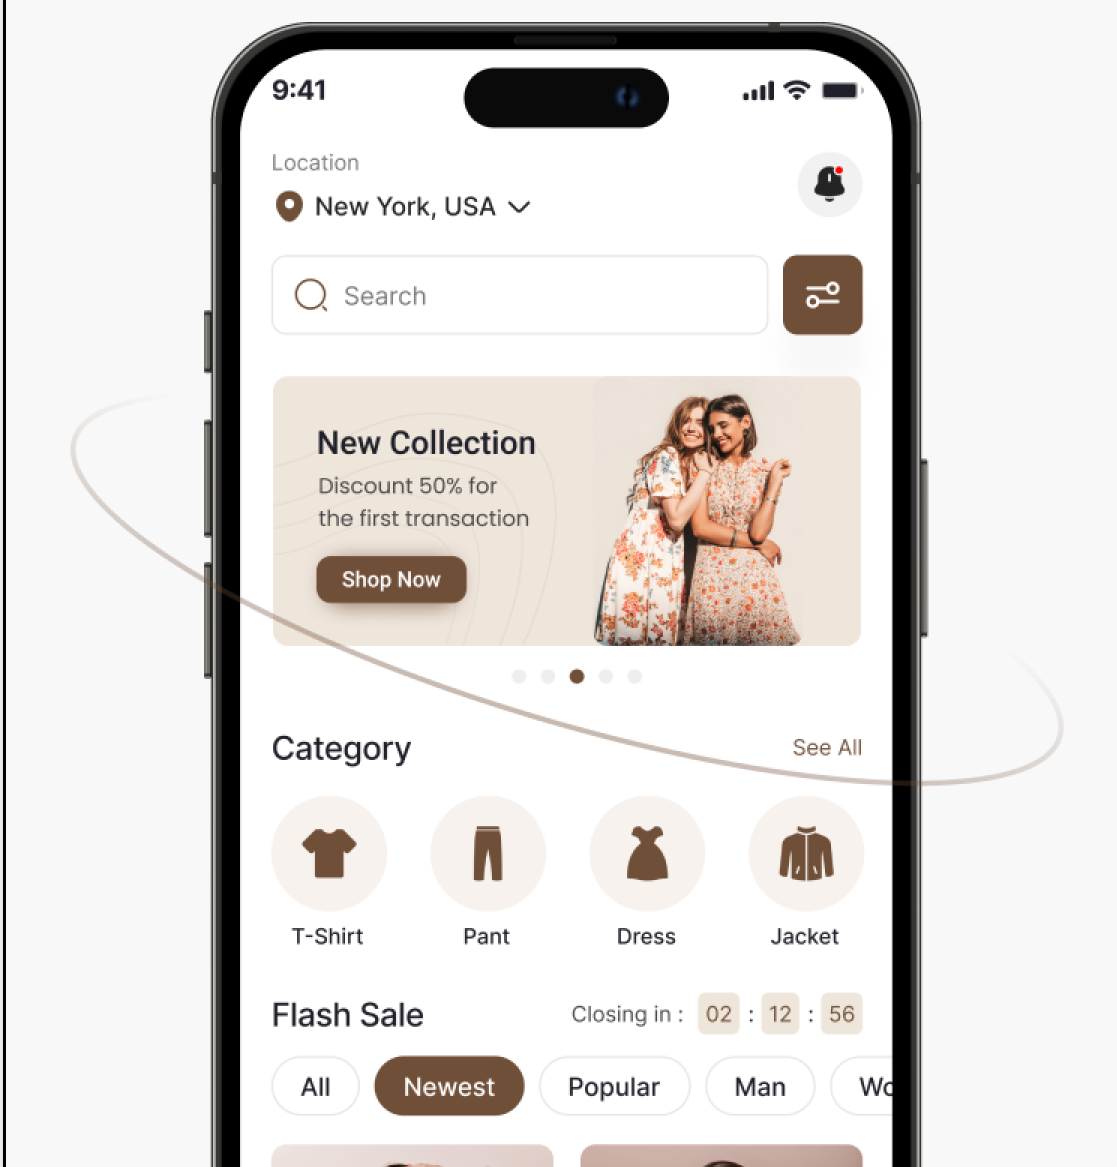
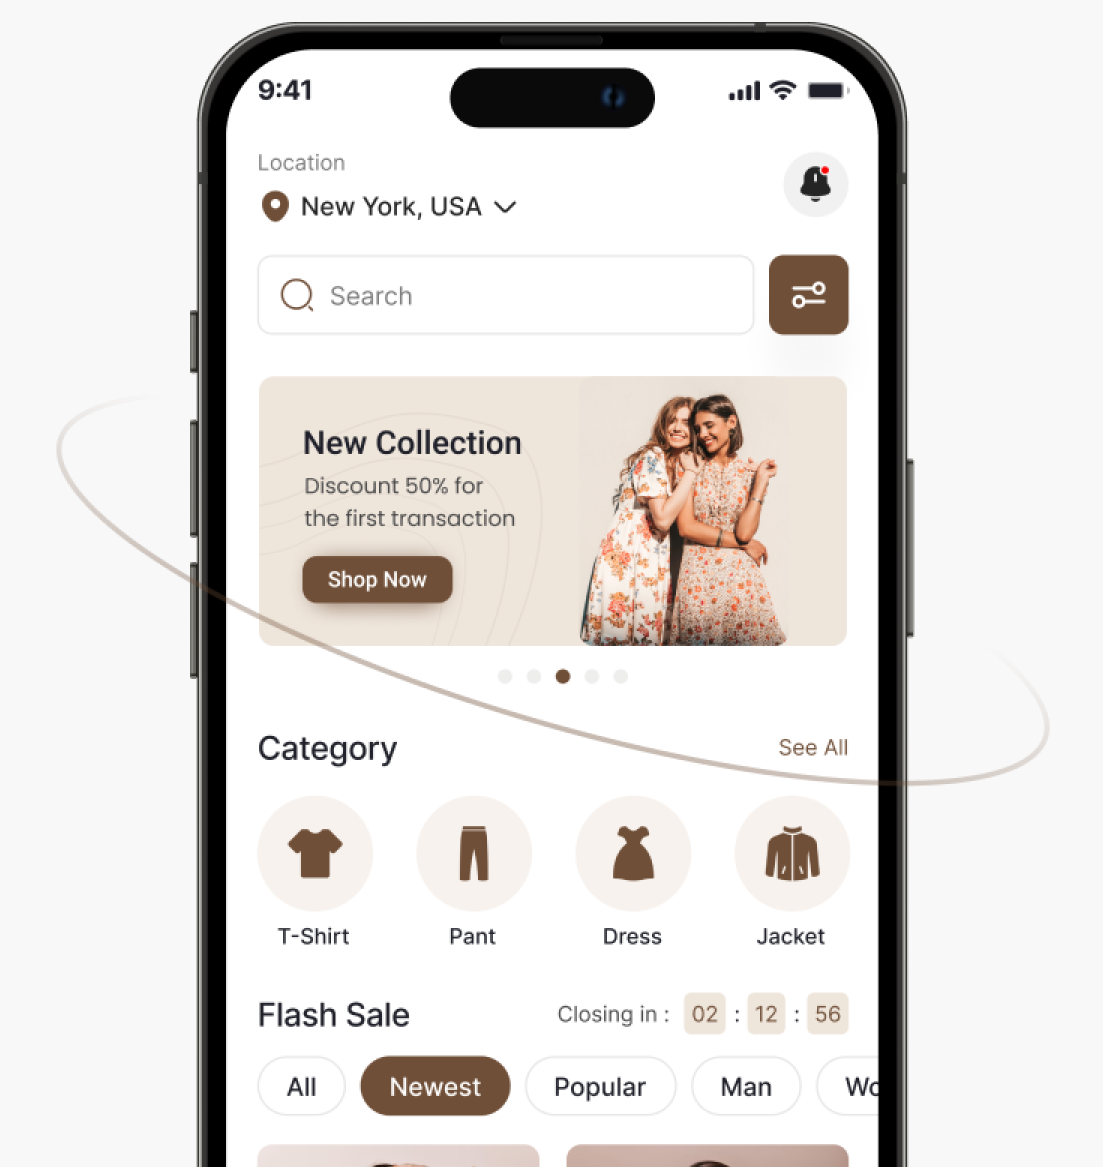
Add Onboarding Feature with Custom Page Transitions
This commit introduces a new onboarding feature to the application, complete with custom page transitions and updated routing configurations. The onboarding process is now managed through a `CustomPageView` widget, which facilitates smooth transitions between different onboarding screens. Each onboarding screen utilizes a `CustomSliderTransition` for a visually appealing navigation experience.

Key Changes:
- Added a new `CustomSliderTransition` widget for custom page transitions.
- Integrated the `CustomSliderTransition` into the app's routing configuration for the onboarding path.
- Created new onboarding screens (`FirstOnBoarding`, `SecondOnboarding`, `ThirdOnboarding`) with specific content and styles.
- Implemented a `CustomPageView` to manage the onboarding flow, including a skip button for direct access to the main content.
- Updated the `WelcomeViewBody` to navigate to the onboarding screens upon button press.
- Adjusted the splash screen animation duration to ensure a smoother transition to the onboarding process.
- Added the `expandable_page_view` dependency to manage the onboarding page transitions effectively.

These changes enhance the user experience by providing a guided introduction to the application's features through an engaging onboarding process.

diff --git a/lib/features/onboarding/presentation/views/widgets/custom_page_view.dart b/lib/features/onboarding/presentation/views/widgets/custom_page_view.dart
@@ -1,0 +1,51 @@
+import 'package:expandable_page_view/expandable_page_view.dart';
+import 'package:flutter/material.dart';
+import 'package:shop_mate/core/utils/app_images.dart';
+import 'package:shop_mate/features/onboarding/presentation/views/widgets/first_onboarding.dart';
+import 'package:shop_mate/features/onboarding/presentation/views/widgets/onboarding_header.dart';
+import 'package:shop_mate/features/onboarding/presentation/views/widgets/second_onboarding.dart';
+import 'package:shop_mate/features/onboarding/presentation/views/widgets/third_onboarding.dart';
+
+import '../../../../../core/utils/app_colors.dart';
+import '../../../../../core/utils/app_styles.dart';
+
+class CustomPageView extends StatefulWidget {
+  const CustomPageView({super.key});
+
+  @override
+  State<CustomPageView> createState() => _CustomPageViewState();
+}
+
+class _CustomPageViewState extends State<CustomPageView> {
+  int currentIndex = 0;
+  late PageController pageController;
+  @override
+  void initState() {
+    super.initState();
+    pageController = PageController();
+    pageController.addListener(() {
+      currentIndex = pageController.page!.round();
+      setState(() {});
+    });
+  }
+
+  @override
+  Widget build(BuildContext context) {
+    return ExpandablePageView.builder(
+      physics: const BouncingScrollPhysics(),
+      clipBehavior: Clip.none,
+      itemCount: 3,
+      controller: pageController,
+      scrollDirection: Axis.horizontal,
+      itemBuilder: (BuildContext context, int index) {
+        if (index == 0) {
+          return const FirstOnBoarding();
+        } else if (index == 1) {
+          return const SecondOnboarding();
+        } else {
+          return const ThirdOnboarding();
+        }
+      },
+    );
+  }
+}

diff --git a/lib/features/onboarding/presentation/views/widgets/onboarding_view_body.dart b/lib/features/onboarding/presentation/views/widgets/onboarding_view_body.dart
@@ -1,16 +1,43 @@
 import 'package:flutter/material.dart';
+import 'package:shop_mate/core/utils/app_colors.dart';
 import 'package:shop_mate/core/utils/app_styles.dart';
+import 'package:shop_mate/features/onboarding/presentation/views/widgets/custom_page_view.dart';
+import 'package:shop_mate/features/onboarding/presentation/views/widgets/onboarding_header.dart';
 
 class OnboardingViewBody extends StatelessWidget {
   const OnboardingViewBody({super.key});
 
   @override
   Widget build(BuildContext context) {
-    return Center(
-      child: Text(
-        'njkrtnje',
-        style: AppStyles.semiBold58.copyWith(color: Colors.white),
-      ),
+    return Column(
+      crossAxisAlignment: CrossAxisAlignment.end,
+      children: [
+        SafeArea(
+          bottom: false,
+          right: false,
+          left: false,
+          child: Padding(
+            padding: const EdgeInsets.symmetric(horizontal: 12.0),
+            child: TextButton(
+              style: TextButton.styleFrom(
+                overlayColor: AppColors.primaryColor,
+              ),
+              onPressed: () {},
+              child: Text(
+                'Skip',
+                style: AppStyles.regular24.copyWith(
+                  color: AppColors.primaryColor,
+                  fontSize: 18,
+                ),
+              ),
+            ),
+          ),
+        ),
+        const SizedBox(
+          height: 6,
+        ),
+        const CustomPageView(),
+      ],
     );
   }
 }

diff --git a/lib/features/onboarding/presentation/views/widgets/welcome_view_body.dart b/lib/features/onboarding/presentation/views/widgets/welcome_view_body.dart
@@ -1,7 +1,9 @@
 import 'package:flutter/material.dart';
+import 'package:go_router/go_router.dart';
 import 'package:shop_mate/core/utils/app_images.dart';
-import 'package:shop_mate/core/utils/app_styles.dart';
+import 'package:shop_mate/core/utils/app_routers.dart';
 import 'package:shop_mate/features/onboarding/presentation/views/widgets/custom_action_button.dart';
+import 'package:shop_mate/features/onboarding/presentation/views/widgets/lorem_text.dart';
 
 import 'already_have_an_account.dart';
 import 'custom_welcom_text.dart';
@@ -29,15 +31,7 @@ class WelcomeViewBody extends StatelessWidget {
             height: 24,
           ),
         ),
-        Padding(
-          padding: const EdgeInsets.symmetric(horizontal: 32.0),
-          child: Text(
-            '\t\t\t\t\t\t\tLorem ipsum dolor sit amet, consectetur adipiscing elit, sed do eiusmod tempor incididunt',
-            style: AppStyles.semiBoldInter16.copyWith(
-              color: Colors.grey,
-            ),
-          ),
-        ),
+        const LoremText(),
         const Expanded(
           flex: 2,
           child: SizedBox(),
@@ -47,7 +41,9 @@ class WelcomeViewBody extends StatelessWidget {
             horizontal: 32,
           ),
           child: CustomElevatedButton(
-            onPressed: () {},
+            onPressed: () async {
+              await GoRouter.of(context).push(AppRouters.onBoarding);
+            },
             text: r"Let's Get Started",
           ),
         ),

diff --git a/lib/features/onboarding/presentation/views/widgets/first_onboarding.dart b/lib/features/onboarding/presentation/views/widgets/first_onboarding.dart
@@ -1,0 +1,41 @@
+import 'package:flutter/material.dart';
+import 'package:shop_mate/features/onboarding/presentation/views/widgets/onboarding_header.dart';
+import '../../../../../core/utils/app_colors.dart';
+import '../../../../../core/utils/app_images.dart';
+import '../../../../../core/utils/app_styles.dart';
+
+class FirstOnBoarding extends StatelessWidget {
+  const FirstOnBoarding({
+    super.key,
+  });
+
+  @override
+  Widget build(BuildContext context) {
+    return OnboardingHeader(
+      image: AppImages.onboarding1,
+      title: Column(
+        children: [
+          Row(
+            mainAxisAlignment: MainAxisAlignment.center,
+            children: [
+              Text(
+                'Seamless ',
+                style: AppStyles.semiBoldPoppins28.copyWith(
+                  color: AppColors.primaryColor,
+                ),
+              ),
+              Text(
+                'Shopping',
+                style: AppStyles.semiBoldPoppins28,
+              ),
+            ],
+          ),
+          Text(
+            'Experience',
+            style: AppStyles.semiBoldPoppins28,
+          ),
+        ],
+      ),
+    );
+  }
+}

diff --git a/lib/features/onboarding/presentation/views/widgets/lorem_text.dart b/lib/features/onboarding/presentation/views/widgets/lorem_text.dart
@@ -1,0 +1,32 @@
+import 'package:flutter/material.dart';
+
+import '../../../../../core/utils/app_styles.dart';
+
+class LoremText extends StatelessWidget {
+  const LoremText({
+    super.key,
+  });
+
+  @override
+  Widget build(BuildContext context) {
+    return Padding(
+      padding: const EdgeInsets.symmetric(horizontal: 32.0),
+      child: Column(
+        children: [
+          Text(
+            'Lorem ipsum dolor sit amet, consectetur',
+            style: AppStyles.semiBoldInter16.copyWith(
+              color: Colors.grey,
+            ),
+          ),
+          Text(
+            'adipiscing elit, sed do eiusmod tempor incididunt',
+            style: AppStyles.semiBoldInter16.copyWith(
+              color: Colors.grey,
+            ),
+          ),
+        ],
+      ),
+    );
+  }
+}

diff --git a/lib/core/utils/app_routers.dart b/lib/core/utils/app_routers.dart
@@ -1,5 +1,7 @@
 import 'package:go_router/go_router.dart';
+import 'package:shop_mate/core/widgets/custom_slider_transition.dart';
 import 'package:shop_mate/core/widgets/custom_zooming_transition.dart';
+import 'package:shop_mate/features/onboarding/presentation/views/onboarding_view.dart';
 import 'package:shop_mate/features/onboarding/presentation/views/welcome_view.dart';
 import 'package:shop_mate/features/splash/presentation/views/splash_view.dart';
 
@@ -25,5 +27,13 @@ abstract class AppRouters {
         duration: 800,
       ),
     ),
+    GoRoute(
+      path: onBoarding,
+      pageBuilder: (context, state) => CustomSliderTransition(
+        key: state.pageKey,
+        child: const OnboardingView(),
+        duration: 400,
+      ),
+    )
   ]);
 }

diff --git a/lib/core/widgets/custom_slider_transition.dart b/lib/core/widgets/custom_slider_transition.dart
@@ -1,0 +1,21 @@
+import 'package:flutter/material.dart';
+import 'package:go_router/go_router.dart';
+
+class CustomSliderTransition extends CustomTransitionPage<void> {
+  CustomSliderTransition(
+      {required LocalKey super.key,
+      required super.child,
+      required int duration})
+      : super(
+          transitionDuration: Duration(milliseconds: duration),
+          transitionsBuilder: (context, animation, secondaryAnimation, child) {
+            return SlideTransition(
+              position: Tween<Offset>(
+                begin: const Offset(1.0, 0.0),
+                end: Offset.zero,
+              ).animate(animation),
+              child: child,
+            );
+          },
+        );
+}

diff --git a/lib/features/onboarding/presentation/views/widgets/onboarding_header.dart b/lib/features/onboarding/presentation/views/widgets/onboarding_header.dart
@@ -1,0 +1,29 @@
+import 'package:flutter/material.dart';
+
+import 'package:shop_mate/features/onboarding/presentation/views/widgets/lorem_text.dart';
+
+class OnboardingHeader extends StatelessWidget {
+  const OnboardingHeader({super.key, required this.image, required this.title});
+
+  final String image;
+  final Widget title;
+  @override
+  Widget build(BuildContext context) {
+    return Column(
+      children: [
+        Image.asset(image),
+        const SizedBox(
+          height: 28,
+        ),
+        title,
+        const SizedBox(
+          height: 22,
+        ),
+        const LoremText(),
+        const SizedBox(
+          height: 32,
+        ),
+      ],
+    );
+  }
+}

diff --git a/lib/features/splash/presentation/views/widgets/logo_with_name.dart b/lib/features/splash/presentation/views/widgets/logo_with_name.dart
@@ -110,12 +110,12 @@ class _LogoWithNameState extends State<LogoWithName>
     ).animate(animationController2);
     animationController1.forward();
 
-    animationController2.forward();
+    animationController2.fling();
   }
 
   void navigateToObBoarding() {
     Future.delayed(
-      const Duration(milliseconds: 1600),
+      const Duration(milliseconds: 1800),
       () {
         GoRouter.of(context).go(AppRouters.welcome);
       },

diff --git a/lib/features/onboarding/presentation/views/widgets/second_onboarding.dart b/lib/features/onboarding/presentation/views/widgets/second_onboarding.dart
@@ -1,0 +1,10 @@
+import 'package:flutter/material.dart';
+
+class SecondOnboarding extends StatelessWidget {
+  const SecondOnboarding({super.key});
+
+  @override
+  Widget build(BuildContext context) {
+    return const Placeholder();
+  }
+}

diff --git a/lib/features/onboarding/presentation/views/widgets/third_onboarding.dart b/lib/features/onboarding/presentation/views/widgets/third_onboarding.dart
@@ -1,0 +1,10 @@
+import 'package:flutter/material.dart';
+
+class ThirdOnboarding extends StatelessWidget {
+  const ThirdOnboarding({super.key});
+
+  @override
+  Widget build(BuildContext context) {
+    return const Placeholder();
+  }
+}

diff --git a/lib/features/onboarding/presentation/views/onboarding_view.dart b/lib/features/onboarding/presentation/views/onboarding_view.dart
@@ -7,7 +7,6 @@ class OnboardingView extends StatelessWidget {
   @override
   Widget build(BuildContext context) {
     return const Scaffold(
-      backgroundColor: Colors.black,
       body: OnboardingViewBody(),
     );
   }
